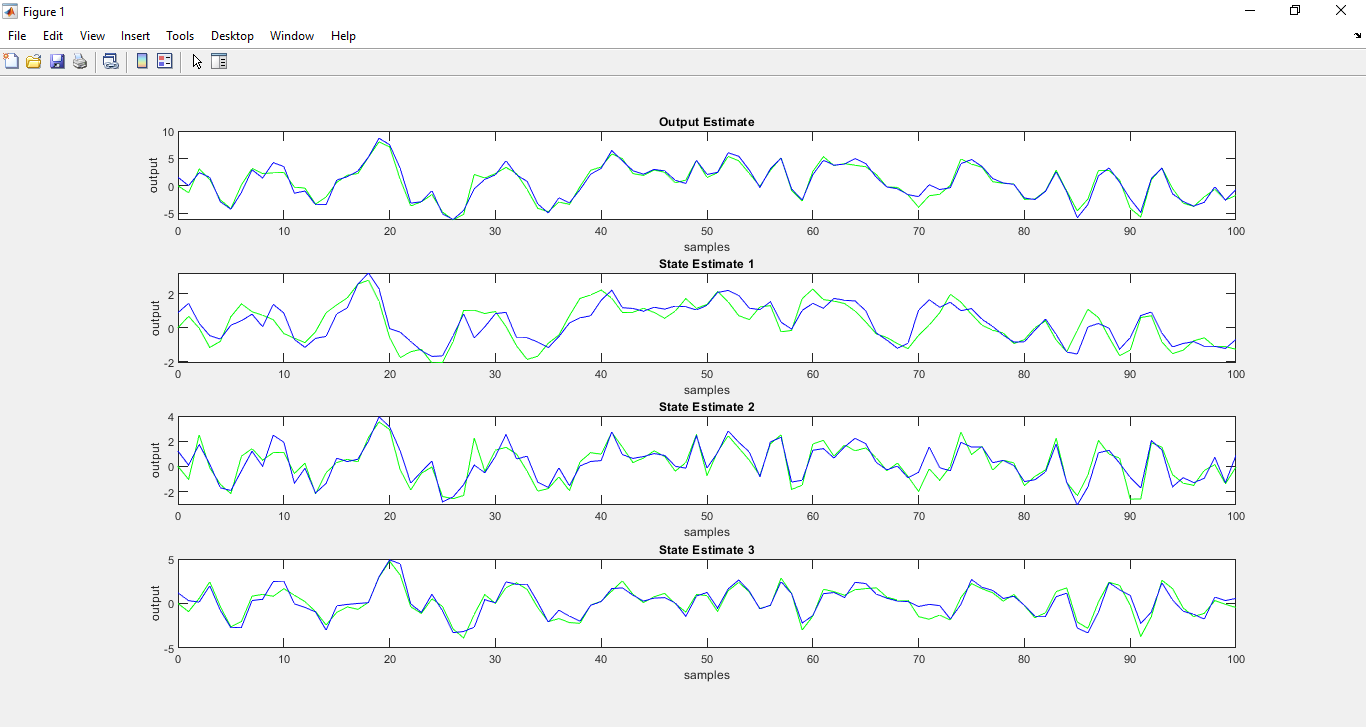
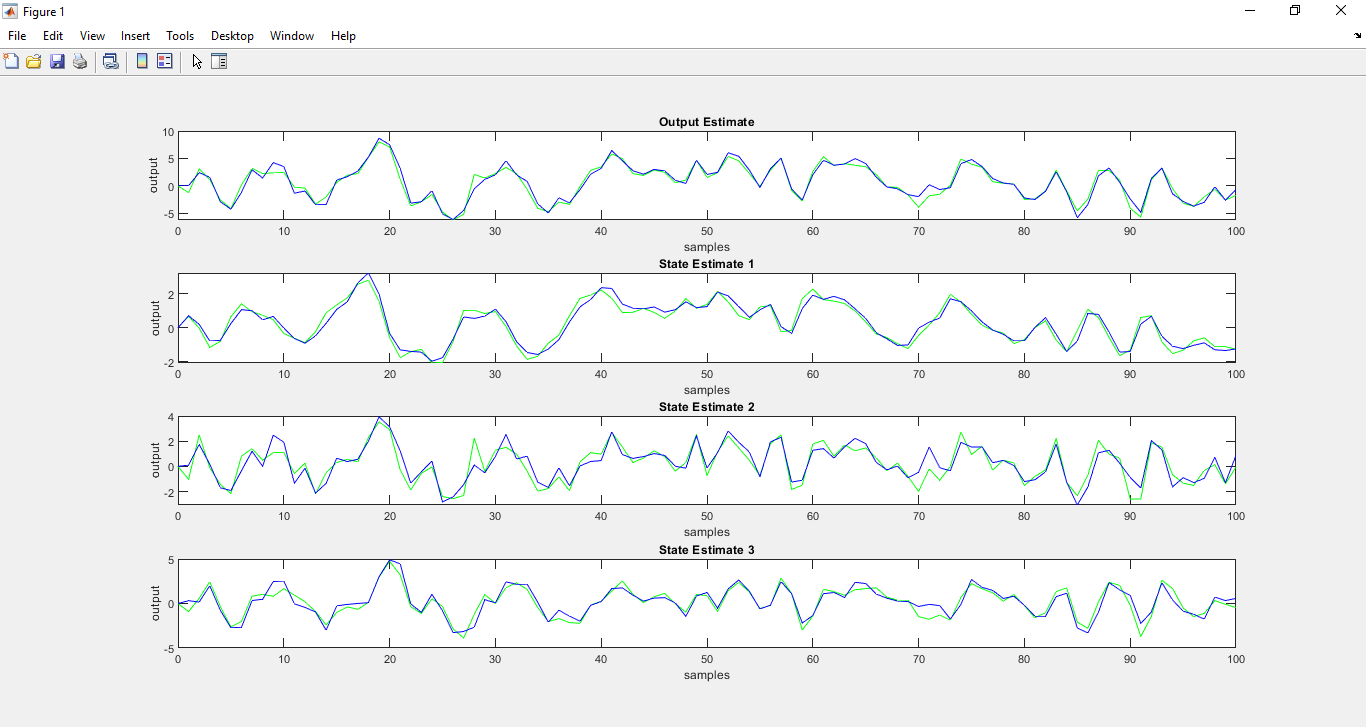
.

diff --git a/outputestimate_3var.m b/outputestimate_3var.m
@@ -42,30 +42,10 @@ y_true = outputEstimate(:, 1);
 y_estimate = outputEstimate(:, 2);  
 y_measured = y_true + v; 
 
-%%%%%%%%%%%%%%%State Estimate 1 Starts Here%%%%%%%%%%%%%%%%%
+y_estimate(1,1) = y_true(1,1);
 
-C1 = [1, 0, 0];
-
-stateEstimatePlant1 = ss(A,[B B], C1, 0, -1, 'inputname',{'u', 'w'}, 'outputname', 'y');
-
-[stateEstimateKF1, L1, p1, M1, Z1] = kalman(stateEstimatePlant1, Q, R);
-
-c1 = [C1; C1]; 
-
-stateEstimateP1 = ss(a, b, c1, d, -1, 'inputname', {'u', 'w', 'v'}, 'outputname', {'y', 'yv'});
-sys1 = parallel(stateEstimateP1, stateEstimateKF1, 1, 1, [], []);
-
-modelStateEstimate1 = feedback(sys1, 1, 4, 2, 1);
-modelStateEstimate1 = modelStateEstimate1([1, 3], [1, 2, 3]); 
-
-modelStateEstimate1.inputname;
-modelStateEstimate1.outputname;
-
-stateEstimate1 = lsim(modelStateEstimate1,[w, v, u]);
-
-x1_true = stateEstimate1(:, 1);   
-x1_estimate = stateEstimate1(:, 2);  
-x1_measured = x1_true + v; 
+MSR_KF = (0.0083*(sum(abs(y_estimate - y_true))^2)^0.5);
+MSR_measure = (0.0083*(sum(abs(y_measured - y_true))^2)^0.5);
 
 %%%%%%%%%%%%%%%State Estimate 2 Starts Here%%%%%%%%%%%%%%%%%
 
@@ -92,6 +72,44 @@ x2_true = stateEstimate2(:, 1);
 x2_estimate = stateEstimate2(:, 2);  
 x2_measured = x2_true + v; 
 
+x2_estimate(1,1) = x2_true(1,1);
+
+%%%%%%%%%%%%%%%State Estimate 1 Starts Here%%%%%%%%%%%%%%%%%
+
+% C1 = [1, 0, 0];
+C1 = [1, 1, 0];
+
+stateEstimatePlant1 = ss(A,[B B], C1, 0, -1, 'inputname',{'u', 'w'}, 'outputname', 'y');
+
+[stateEstimateKF1, L1, p1, M1, Z1] = kalman(stateEstimatePlant1, Q, R);
+
+c1 = [C1; C1]; 
+
+stateEstimateP1 = ss(a, b, c1, d, -1, 'inputname', {'u', 'w', 'v'}, 'outputname', {'y', 'yv'});
+sys1 = parallel(stateEstimateP1, stateEstimateKF1, 1, 1, [], []);
+
+modelStateEstimate1 = feedback(sys1, 1, 4, 2, 1);
+modelStateEstimate1 = modelStateEstimate1([1, 3], [1, 2, 3]); 
+
+modelStateEstimate1.inputname;
+modelStateEstimate1.outputname;
+
+stateEstimate1 = lsim(modelStateEstimate1,[w, v, u]);
+
+% x1_true = stateEstimate1(:, 1);   
+% x1_estimate = stateEstimate1(:, 2);  
+% x1_measured = x1_true + v; 
+
+x1_true = stateEstimate1(:, 1) - stateEstimate2(:, 1);   
+x1_estimate = stateEstimate1(:, 2) - stateEstimate2(:, 2);  
+x1_measured = x1_true + v; 
+
+
+x1_estimate(1,1) = x1_true(1,1);
+
+MSR_KF1 = (0.0083*(sum(abs(x1_estimate - x1_true))^2)^0.5);
+MSR_measure1 = (0.0083*(sum(abs(x1_measured - x1_true))^2)^0.5);
+
 %%%%%%%%%%%%%%%State Estimate 3 Starts Here%%%%%%%%%%%%%%%%%
 
 C3 = [0, 0, 1];
@@ -117,11 +135,9 @@ x3_true = stateEstimate3(:, 1);
 x3_estimate = stateEstimate3(:, 2);  
 x3_measured = x3_true + v; 
 
+x3_estimate(1,1) = x3_true(1,1);
 
 %%%%%%%%%%%%%%%%%%Plotting Results%%%%%%%%%%%%%%%%%
-
-MSR_KF = (0.0083*(sum(abs(y_estimate - y_true))^2)^0.5);
-MSR_measure = (0.0083*(sum(abs(y_measured - y_true))^2)^0.5);
 
 clf
 subplot(411);

diff --git a/paper_implementation.m b/paper_implementation.m
@@ -46,8 +46,10 @@ y_true = output(:, 1);   % true response
 y_estimate = output(:, 2);  % estimated response
 y_measured = y_true + v; %measured response 
 
-MSR_KF = (0.0083*(sum(abs(y_estimate - y_true))^2)^0.5);
-MSR_measure = (0.0083*(sum(abs(y_measured - y_true))^2)^0.5);
+y_estimate(1,1) = y_true(1,1);
+
+MSR_KF = (0.0083*(sum(abs(y_estimate - y_true))^2)^0.5)
+MSR_measure = (0.0083*(sum(abs(y_measured - y_true))^2)^0.5)
 
 %%%%%%%%%%%%%%%State Estimate 1 Starts Here%%%%%%%%%%%%%%%%%
 
@@ -60,6 +62,8 @@ Plant1 = ss(A, B, C1, 0, -1, 'inputname',{'u', 'w', 'x'}, 'outputname', 'y');
 c1 = [1, 0, 0; 1, 0, 0];
 
 P1 = ss(a, b, c1, d, -1, 'inputname', {'u', 'w', 'x', 'v'}, 'outputname', {'y', 'yv'});
+
+x1_initial = pinv([C1*(C1)'])*(C1)'; 
 
 sys1 = parallel(P1, KF1, 1, 1, [], []);
 
@@ -75,6 +79,8 @@ x1_true = state1(:, 1);
 x1_estimate = state1(:, 2);  
 x1_measured = x1_true + v; 
 
+x1_estimate(1,1) = x1_true(1,1);
+
 %%%%%%%%%%%%%%%State Estimate 2 Starts Here%%%%%%%%%%%%%%%%%
 
 C2 = [0, 1, 0];
@@ -86,6 +92,8 @@ Plant2 = ss(A, B, C2, 0, -1, 'inputname',{'u', 'w', 'x'}, 'outputname', 'y');
 c2 = [0, 1, 0; 0, 1, 0];
 
 P2 = ss(a, b, c2, d, -1, 'inputname', {'u', 'w', 'x', 'v'}, 'outputname', {'y', 'yv'});
+
+x2_initial = pinv([C2*(C2)'])*(C2)'; 
 
 sys2 = parallel(P2, KF2, 1, 1, [], []);
 
@@ -101,6 +109,8 @@ x2_true = state2(:, 1);
 x2_estimate = state2(:, 2);  
 x2_measured = x2_true + v; 
 
+x2_estimate(1,1) = x2_true(1,1);
+
 %%%%%%%%%%%%%%%State Estimate 3 Starts Here%%%%%%%%%%%%%%%%%
 
 C3 = [0, 0, 1];
@@ -112,6 +122,8 @@ Plant3 = ss(A, B, C3, 0, -1, 'inputname',{'u', 'w', 'x'}, 'outputname', 'y');
 c3 = [0, 0, 1; 0, 0, 1];
 
 P3 = ss(a, b, c3, d, -1, 'inputname', {'u', 'w', 'x', 'v'}, 'outputname', {'y', 'yv'});
+
+x3_initial = pinv([C3*(C3)'])*(C3)';
 
 sys3 = parallel(P3, KF3, 1, 1, [], []);
 
@@ -126,6 +138,8 @@ state3 = lsim(modelEstimate3,[w, v, u, x]);
 x3_true = state3(:, 1);   
 x3_estimate = state3(:, 2);  
 x3_measured = x3_true + v; 
+
+x3_estimate(1, 1) = x3_true(1, 1);
 
 %%%%%%%%%%%%%%%%%%Plotting Results%%%%%%%%%%%%%%%%%
 

diff --git a/README.md b/README.md
@@ -1,5 +1,10 @@
-# KF-in-microgrids
+# Kalman-Filters-in-Microgrids
 
-Kalman filter to estimate the PCC voltages of multiple DERs
+Kalman filter to estimate the PCC voltages of multiple DERs. 
+
+A Microgrid incorporates multiple DERs and state estimation of voltages at PCC is essential in order to avoid voltage regulation problems. 
+In this implementation, Consider a 3 input voltages and 3 sensors that sense the PCC voltages of the 3 DERs. 
+The state estimation of these 3 states (voltages) is done with the help of a Kalman Filter. 
+
 
 ![Image](https://github.com/vishwas1101/KF-in-microgrids/blob/main/KF_plot1.png)
